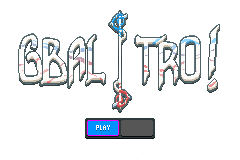
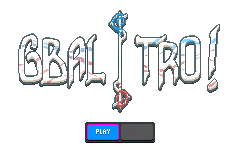
remove disclaimer from main menu

Changed region(s): [[0.35, 0.7188, 0.6417, 0.9062]]

diff --git a/source/game.c b/source/game.c
@@ -91,7 +91,7 @@
 // TODO: Rename "PID" to "PAL_IDX"
 // Palette IDs
 #define BOSS_BLIND_PRIMARY_PID               1
-#define MAIN_MENU_PLAY_BUTTON_OUTLINE_PID    3
+#define MAIN_MENU_PLAY_BUTTON_OUTLINE_PID    2
 #define REROLL_BTN_PID                       3
 #define BLIND_SKIP_BTN_PID                   5
 #define MAIN_MENU_PLAY_BUTTON_MAIN_COLOR_PID 5
